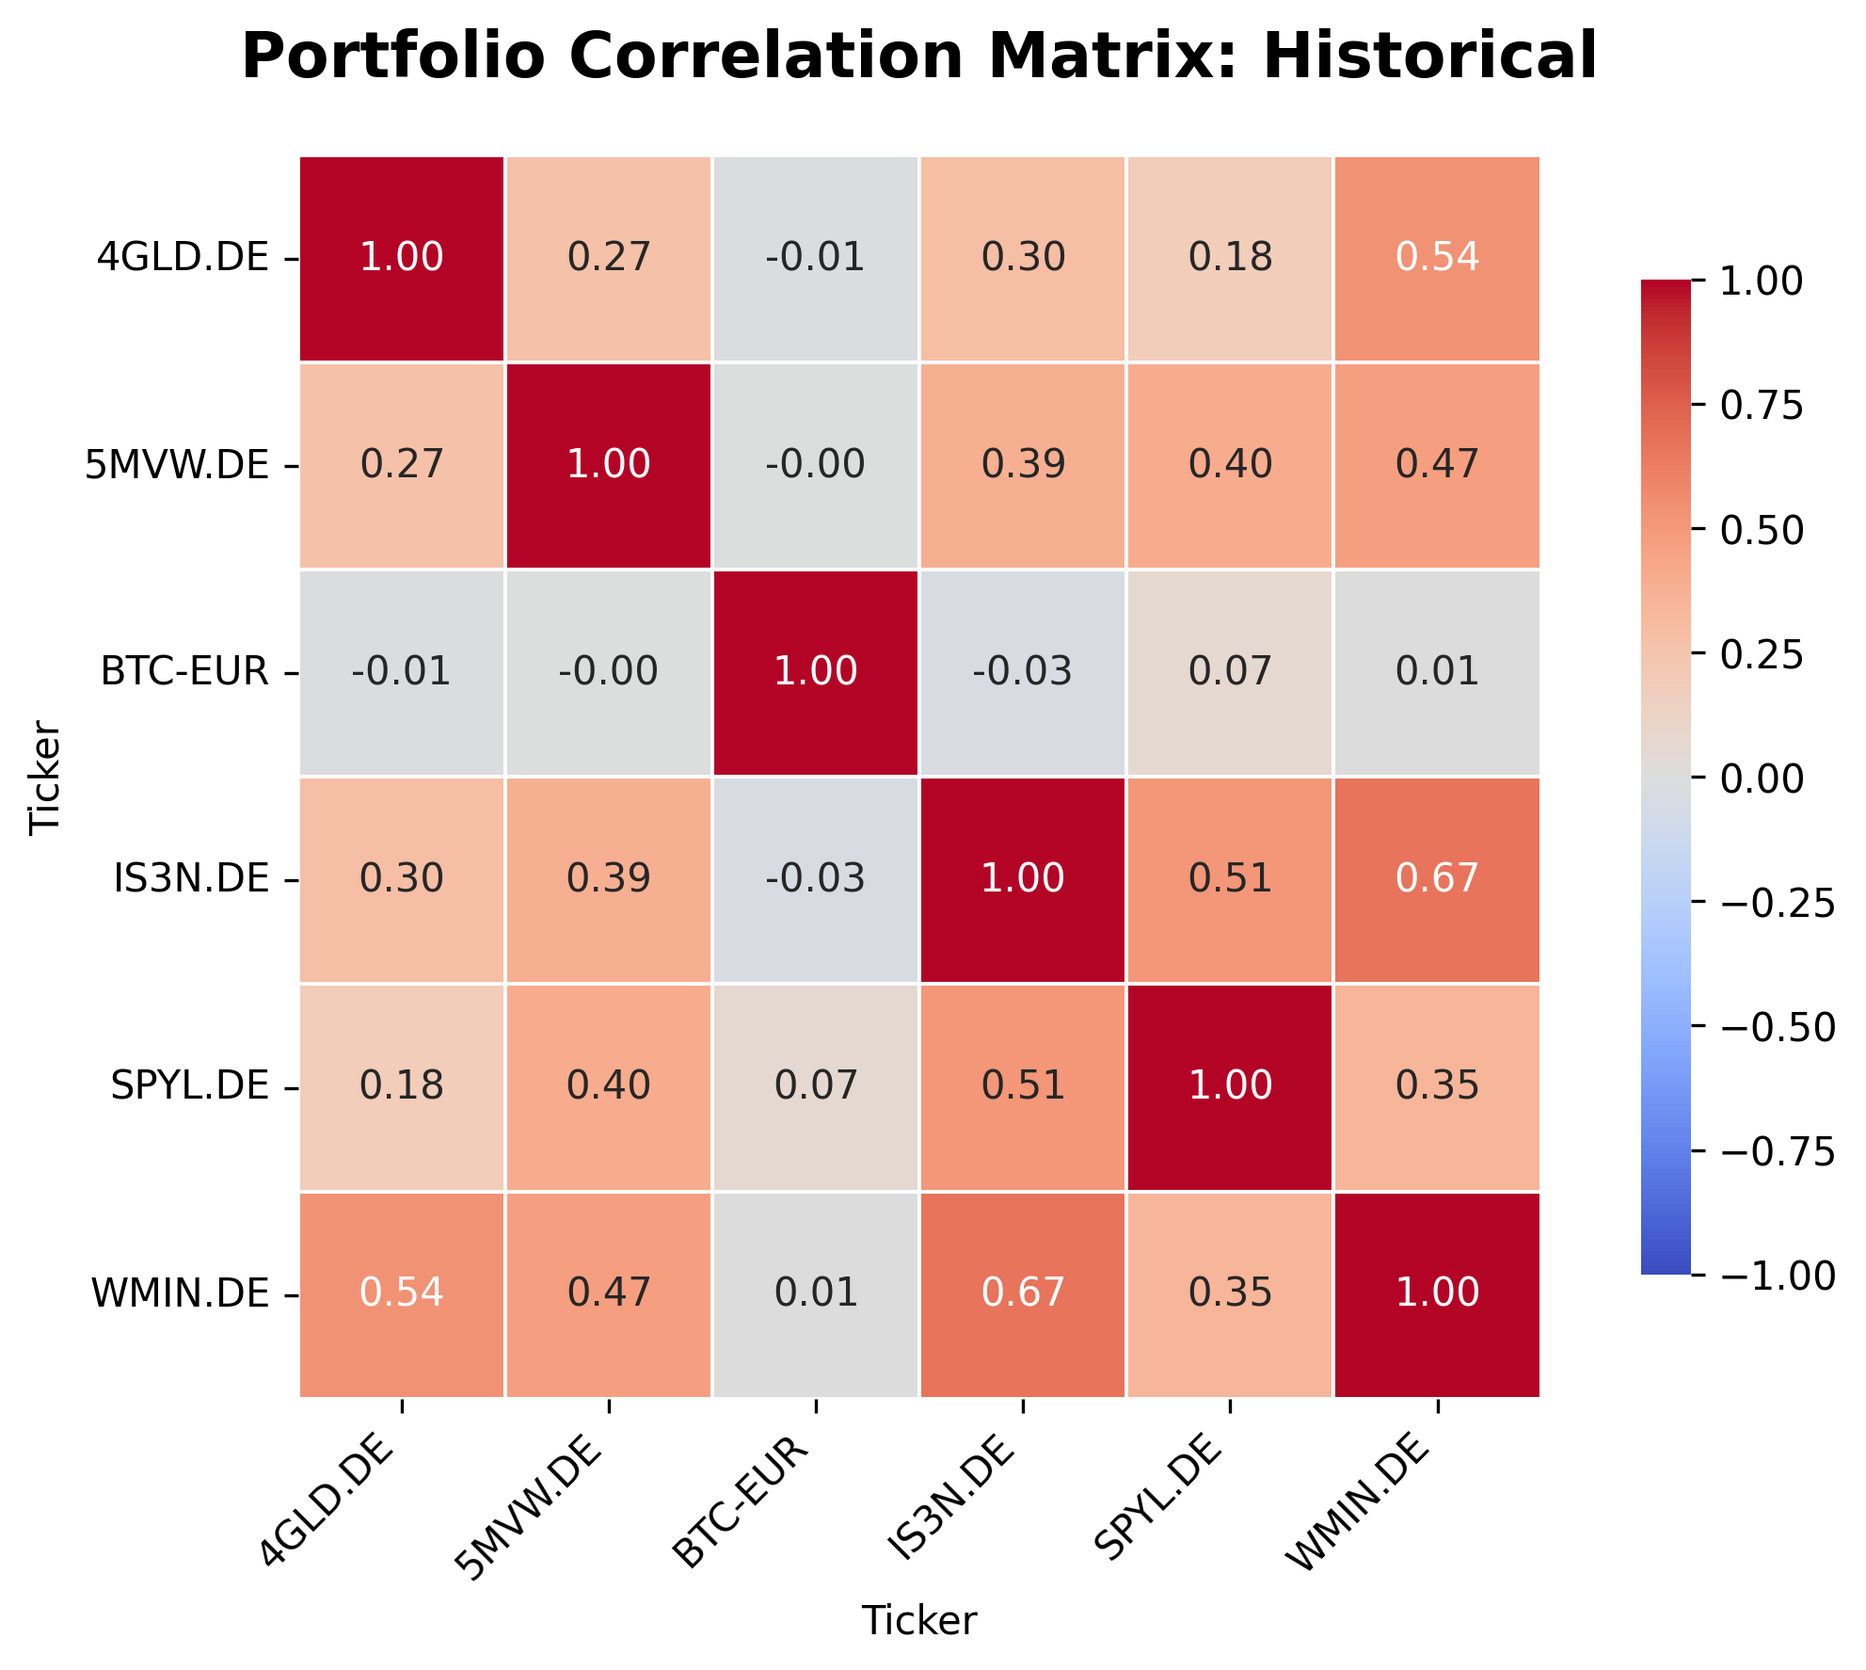
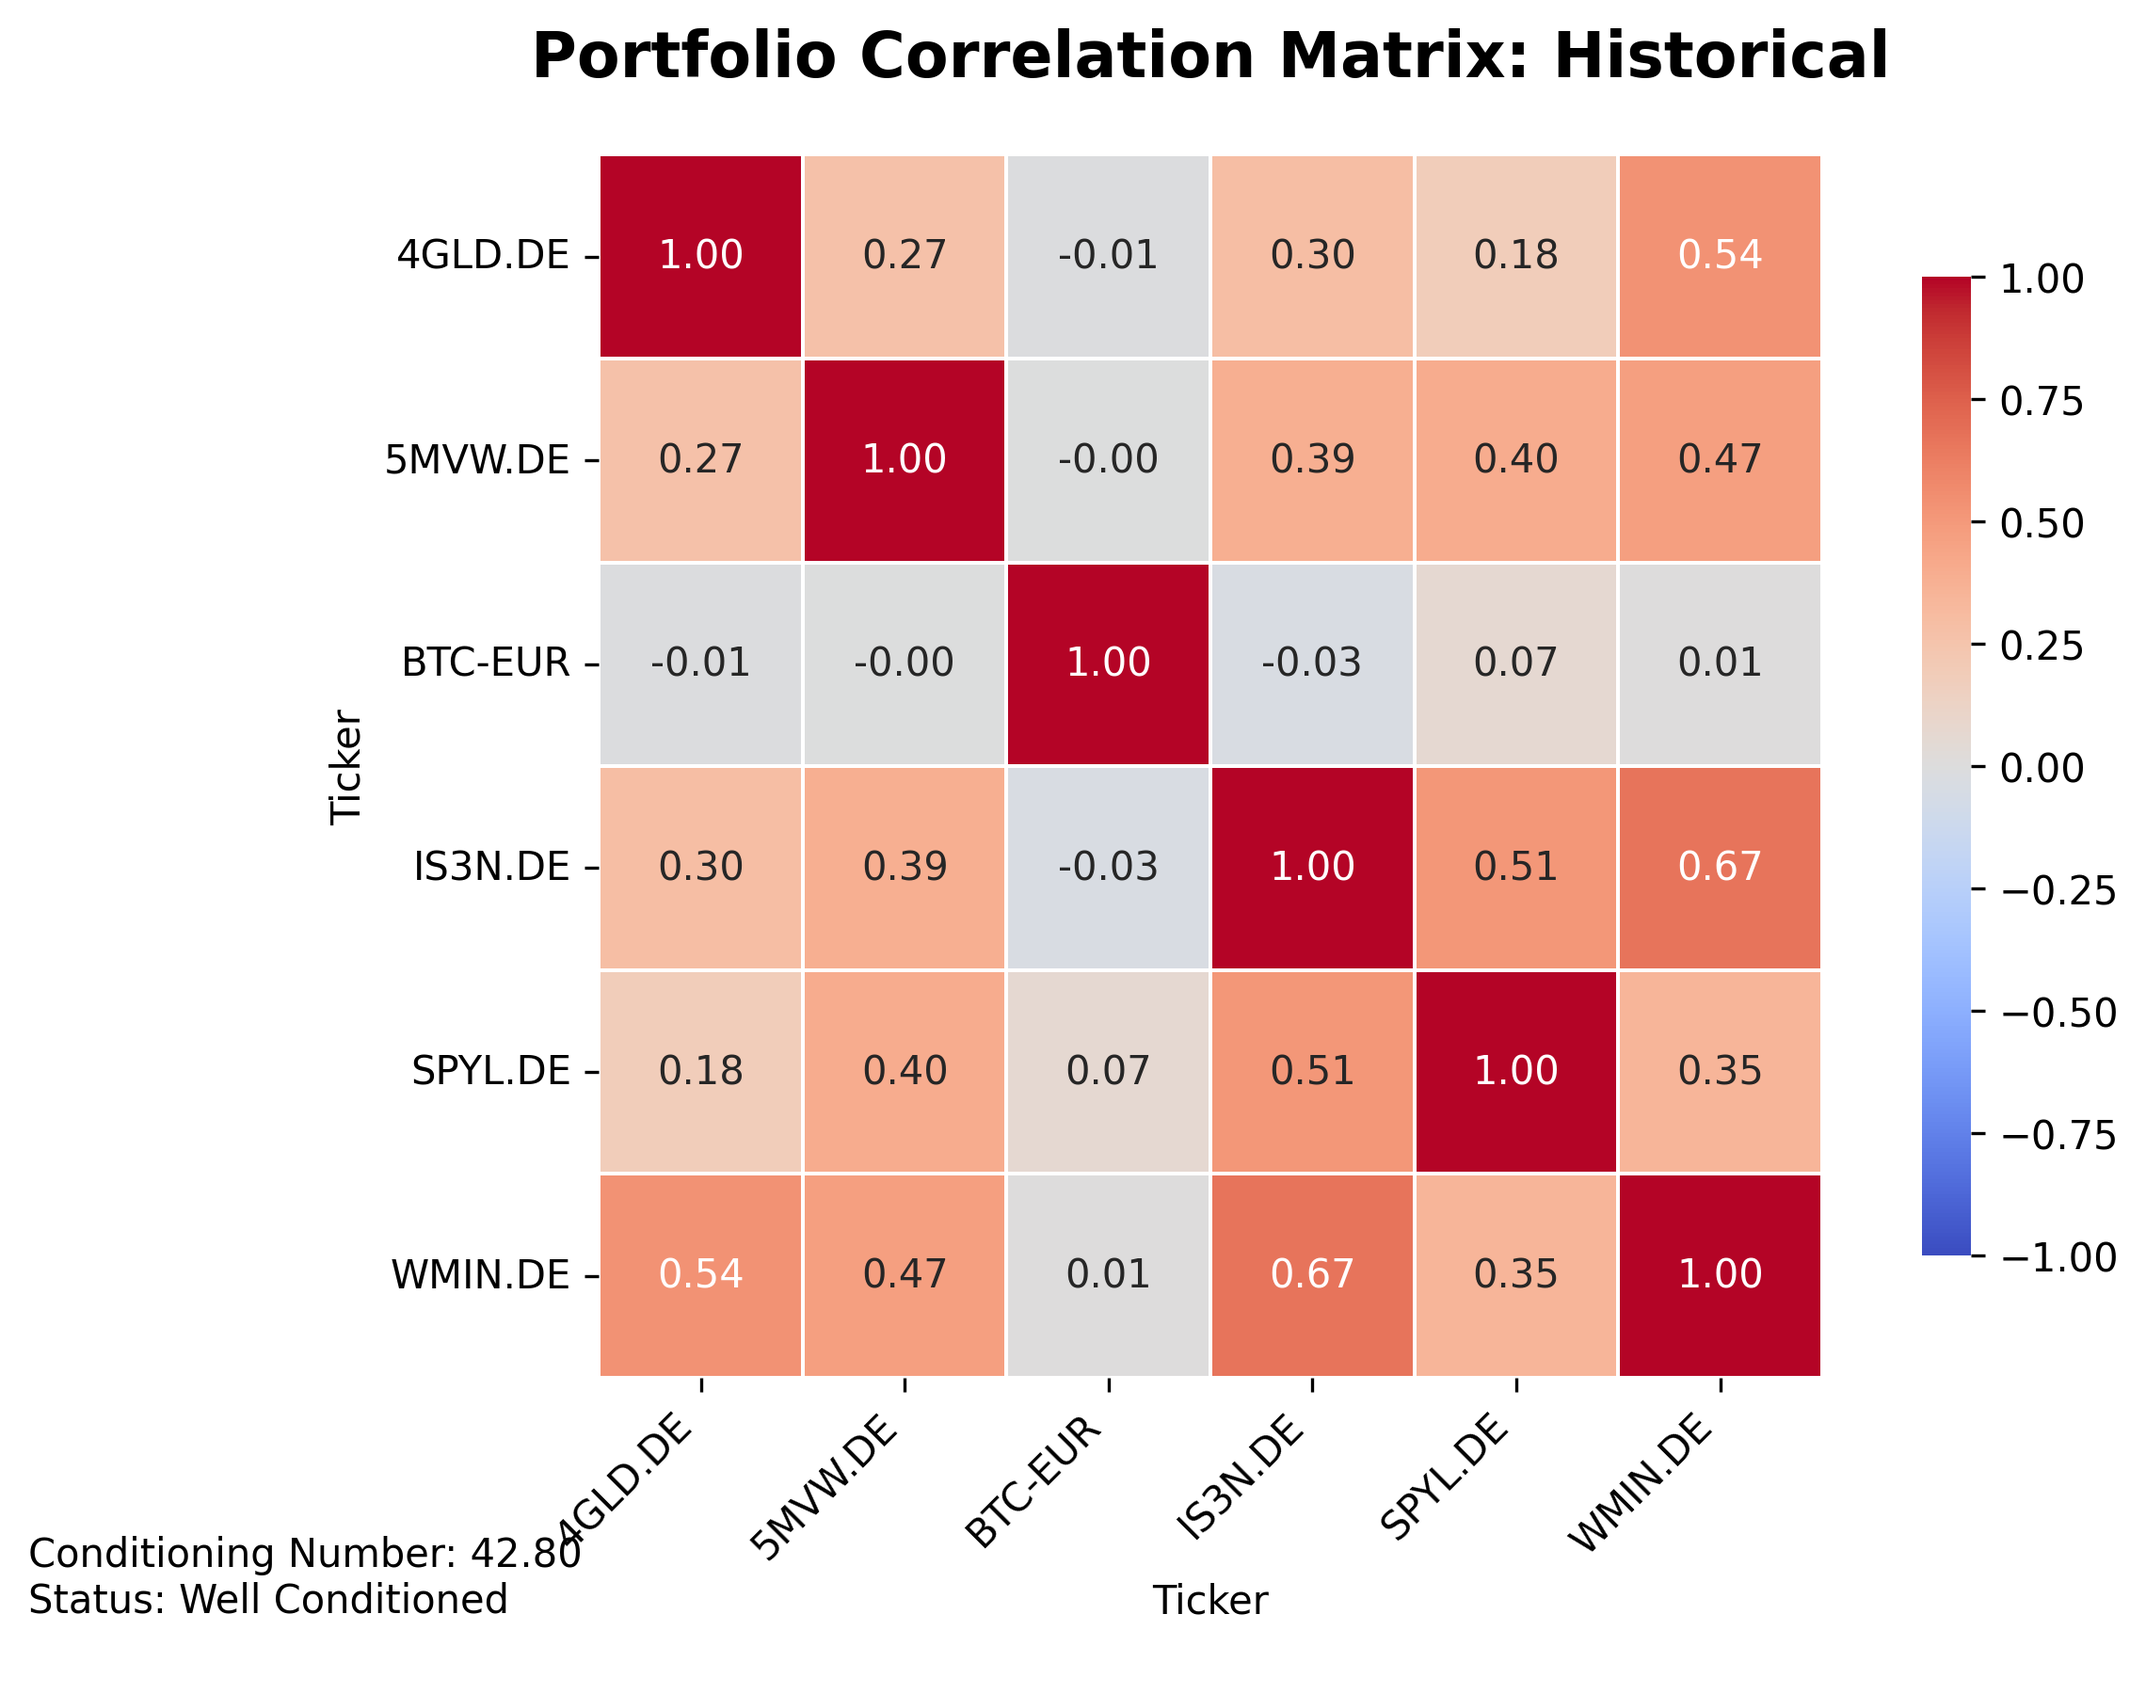
Enhance correlation heatmap visualization
- Updated `plot_correlation_heatmap` function to accept a dictionary containing correlation matrix analysis, including conditioning number and status.
- Added conditioning status display to the heatmap, improving interpretability of correlation results.
- Adjusted layout to accommodate new statistics text below the plot.

diff --git a/src/visualization.py b/src/visualization.py
@@ -146,15 +146,20 @@ def plot_simulation_results(portfolio_paths, regime_name):
     plt.show()
 
 
-def plot_correlation_heatmap(corr_matrix, regime_name):
+def plot_correlation_heatmap(corr_matrix_analysis, regime_name):
     """
     Plot a heatmap of the correlation matrix using seaborn.
 
     Parameters:
-        corr_matrix (pd.DataFrame): Correlation matrix (square, with asset names as index/columns).
+        corr_matrix_analysis (dict): Output of get_cov_matrix_analysis(), containing correlation matrix and related stats.
         regime_name (str): Scenario name (e.g., 'historical', 'fiat_debasement', 'geopolitical_crisis').
         title (str, optional): Title for the plot.
     """
+    corr_matrix = corr_matrix_analysis["correlation_matrix"]
+    condition_number = corr_matrix_analysis["condition_number"]
+
+    # Determine conditioning status (arbitrary threshold: < 100 is 'Well', else 'Poorly')
+    cond_status = "Well Conditioned" if condition_number < 100 else "Poorly Conditioned"
 
     plt.figure(figsize=(8, 6))
     sns.heatmap(
@@ -178,6 +183,14 @@ def plot_correlation_heatmap(corr_matrix, regime_name):
         fontweight="bold",
         pad=20,
     )
+
+    stats_text = (
+        f"Conditioning Number: {condition_number:.2f}\n" f"Status: {cond_status}\n"
+    )
     plt.tight_layout()
+
+    plt.subplots_adjust(bottom=0.18)  # Make space for text below the plot
+    plt.figtext(0.01, 0.01, stats_text, ha="left", va="bottom", fontsize=10)
+
     save_figure(regime_name, "correlation_matrix", "png")
     plt.show()
